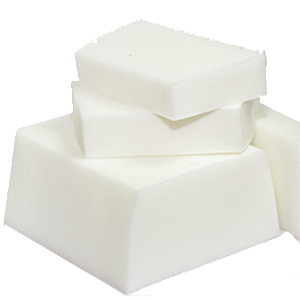
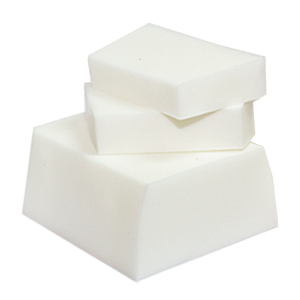
added images for first slider, hover effect

diff --git a/css/_main.scss b/css/_main.scss
@@ -49,7 +49,6 @@
 .main-slider {
     position: relative;
     margin-bottom: 40px;
-
     &__slide {
         position: relative;
         min-width: 300px;
@@ -61,6 +60,14 @@
         &:hover::after, &:focus::after {
             opacity: 0.8;
         }
+        &:hover .main-slider__desc, &:focus .main-slider__desc {
+            opacity: 1;
+        }
+        &:hover .main-slider__img, &:focus .main-slider__img {
+            filter: drop-shadow(0 5px 3px rgba(#303030, 0.5)) blur(5px);
+        }
+
+        //внешний контур слайда
         &::before {
             content: '';
             z-index: -1;
@@ -69,19 +76,29 @@
             bottom: -10px;
             left: 0;
             right: 0;
-            background: linear-gradient(45deg, rgba(183,222,237,0.5) 0%,rgba(33,180,226,0.5) 35%,rgba(33,180,226,0.5) 41%,rgba(113,206,239,0.5) 61%,rgba(183,222,237,0.5) 100%); 
+            background: linear-gradient(45deg, rgba(183,222,237,0.5) 0%,
+                                                rgba(33,180,226,0.5) 35%,
+                                                rgba(33,180,226,0.5) 40%,
+                                                rgba(113,206,239,0.5) 60%,
+                                                rgba(183,222,237,0.5) 100%); 
             filter: blur(3px);
         }
+
+        //внутренний контур слайда для описания
         &::after {
             content: '';
             position: absolute;
             z-index: 0;
-            top: 25%;
-            bottom: 25%;
-            left: 10px;
-            right: 10px;
+            top: 10%;
+            bottom: 10%;
+            left: 10%;
+            right: 10%;
             background-color: #303030;
-            background: linear-gradient(45deg, rgba(183,222,237,0.5) 0%,rgba(33,180,226,0.5) 35%,rgba(33,180,226,0.5) 41%,rgba(113,206,239,0.5) 61%,rgba(183,222,237,0.5) 100%); 
+            background: linear-gradient(45deg, rgba(183,222,237,0.7) 0%,
+                                                rgba(33,180,226,0.7) 35%,
+                                                rgba(33,180,226,0.7) 40%,
+                                                rgba(113,206,239,0.7) 60%,
+                                                rgba(183,222,237,0.7) 100%); 
             border-radius: 5px;
             box-shadow: 0 0 5px 3px rgba($color: #000000, $alpha: 0.3) inset;
             opacity: 0;
@@ -99,7 +116,6 @@
         transform: translateY(-50%);
         transition: box-shadow 0.3s;
         cursor: pointer;
-        filter: hue-rotate(235deg);
         &:hover {
             box-shadow: 0 0 5px 3px rgba($color: #000000, $alpha: 0.2);
         }
@@ -112,14 +128,22 @@
     }
     &__img {
         margin: 0 auto;
+        transition: all 0.3s ease-in;
+        filter: drop-shadow(0 5px 3px rgba(#303030, 0.5));
     }
     &__desc {
         position: absolute;
         z-index: 3;
         top: 50%;
-        right: 50%;
         display: block;
+        width: 100%;
+        padding: 0 12%;
+        color: #ffffff;
+        font-size: 20px;
         text-align: center;
-        transform: translate(50%, -50%);
+        transform: translateY(-50%);
+        box-sizing: border-box;
+        transition: opacity 0.3s ease-in;
+        opacity: 0;
     }
 }

diff --git a/index.html b/index.html
@@ -100,31 +100,15 @@
                     <div class="main-slider__inner main-slider-base">
                         <div class="main-slider__slide main-slider__slide_active">
                             <img class="main-slider__img" src="images/soap-base/transparent/soap-base-1.png" alt="soap base">
-                            <span class="main-slider__desc">Прозрачная мыльная основа</span>
+                            <span class="main-slider__desc">Белая мыльная основа</span>
                         </div>
                         <div class="main-slider__slide">
-                            <img class="main-slider__img" src="images/soap-base/transparent/soap-base-1.png" alt="soap base">
-                            <span class="main-slider__desc">Прозрачная мыльная основа</span>
+                            <img class="main-slider__img" src="images/soap-base/transparent/soap-base-2.png" alt="soap base">
+                            <span class="main-slider__desc">Мыльная основа Active SLS Free</span>
                         </div>
                         <div class="main-slider__slide">
-                            <img class="main-slider__img" src="images/soap-base/transparent/soap-base-1.png" alt="soap base">
-                            <span class="main-slider__desc">Прозрачная мыльная основа</span>
-                        </div>
-                        <div class="main-slider__slide">
-                            <img class="main-slider__img" src="images/soap-base/transparent/soap-base-1.png" alt="soap base">
-                            <span class="main-slider__desc">Прозрачная мыльная основа</span>
-                        </div>
-                        <div class="main-slider__slide">
-                            <img class="main-slider__img" src="images/soap-base/transparent/soap-base-1.png" alt="soap base">
-                            <span class="main-slider__desc">Прозрачная мыльная основа</span>
-                        </div>
-                        <div class="main-slider__slide">
-                            <img class="main-slider__img" src="images/soap-base/transparent/soap-base-1.png" alt="soap base">
-                            <span class="main-slider__desc">Прозрачная мыльная основа</span>
-                        </div>
-                        <div class="main-slider__slide">
-                            <img class="main-slider__img" src="images/soap-base/transparent/soap-base-1.png" alt="soap base">
-                            <span class="main-slider__desc">Прозрачная мыльная основа</span>
+                            <img class="main-slider__img" src="images/soap-base/transparent/soap-base-3.png" alt="soap base">
+                            <span class="main-slider__desc">Мыльная основа с добавлением ослиного молока</span>
                         </div>
                     </div>
 

diff --git a/css/style.css b/css/style.css
@@ -401,6 +401,15 @@ img {
   opacity: 0.8;
 }
 
+.main-slider__slide:hover .main-slider__desc, .main-slider__slide:focus .main-slider__desc {
+  opacity: 1;
+}
+
+.main-slider__slide:hover .main-slider__img, .main-slider__slide:focus .main-slider__img {
+  -webkit-filter: drop-shadow(0 5px 3px rgba(48, 48, 48, 0.5)) blur(5px);
+          filter: drop-shadow(0 5px 3px rgba(48, 48, 48, 0.5)) blur(5px);
+}
+
 .main-slider__slide::before {
   content: '';
   z-index: -1;
@@ -409,7 +418,7 @@ img {
   bottom: -10px;
   left: 0;
   right: 0;
-  background: linear-gradient(45deg, rgba(183, 222, 237, 0.5) 0%, rgba(33, 180, 226, 0.5) 35%, rgba(33, 180, 226, 0.5) 41%, rgba(113, 206, 239, 0.5) 61%, rgba(183, 222, 237, 0.5) 100%);
+  background: linear-gradient(45deg, rgba(183, 222, 237, 0.5) 0%, rgba(33, 180, 226, 0.5) 35%, rgba(33, 180, 226, 0.5) 40%, rgba(113, 206, 239, 0.5) 60%, rgba(183, 222, 237, 0.5) 100%);
   -webkit-filter: blur(3px);
           filter: blur(3px);
 }
@@ -418,12 +427,12 @@ img {
   content: '';
   position: absolute;
   z-index: 0;
-  top: 25%;
-  bottom: 25%;
-  left: 10px;
-  right: 10px;
+  top: 10%;
+  bottom: 10%;
+  left: 10%;
+  right: 10%;
   background-color: #303030;
-  background: linear-gradient(45deg, rgba(183, 222, 237, 0.5) 0%, rgba(33, 180, 226, 0.5) 35%, rgba(33, 180, 226, 0.5) 41%, rgba(113, 206, 239, 0.5) 61%, rgba(183, 222, 237, 0.5) 100%);
+  background: linear-gradient(45deg, rgba(183, 222, 237, 0.7) 0%, rgba(33, 180, 226, 0.7) 35%, rgba(33, 180, 226, 0.7) 40%, rgba(113, 206, 239, 0.7) 60%, rgba(183, 222, 237, 0.7) 100%);
   border-radius: 5px;
   -webkit-box-shadow: 0 0 5px 3px rgba(0, 0, 0, 0.3) inset;
           box-shadow: 0 0 5px 3px rgba(0, 0, 0, 0.3) inset;
@@ -447,8 +456,6 @@ img {
   transition: box-shadow 0.3s;
   transition: box-shadow 0.3s, -webkit-box-shadow 0.3s;
   cursor: pointer;
-  -webkit-filter: hue-rotate(235deg);
-          filter: hue-rotate(235deg);
 }
 
 .main-slider__next:hover, .main-slider__prev:hover {
@@ -466,16 +473,28 @@ img {
 
 .main-slider__img {
   margin: 0 auto;
+  -webkit-transition: all 0.3s ease-in;
+  transition: all 0.3s ease-in;
+  -webkit-filter: drop-shadow(0 5px 3px rgba(48, 48, 48, 0.5));
+          filter: drop-shadow(0 5px 3px rgba(48, 48, 48, 0.5));
 }
 
 .main-slider__desc {
   position: absolute;
   z-index: 3;
   top: 50%;
-  right: 50%;
   display: block;
+  width: 100%;
+  padding: 0 12%;
+  color: #ffffff;
+  font-size: 20px;
   text-align: center;
-  -webkit-transform: translate(50%, -50%);
-          transform: translate(50%, -50%);
+  -webkit-transform: translateY(-50%);
+          transform: translateY(-50%);
+  -webkit-box-sizing: border-box;
+          box-sizing: border-box;
+  -webkit-transition: opacity 0.3s ease-in;
+  transition: opacity 0.3s ease-in;
+  opacity: 0;
 }
 /*# sourceMappingURL=style.css.map */
